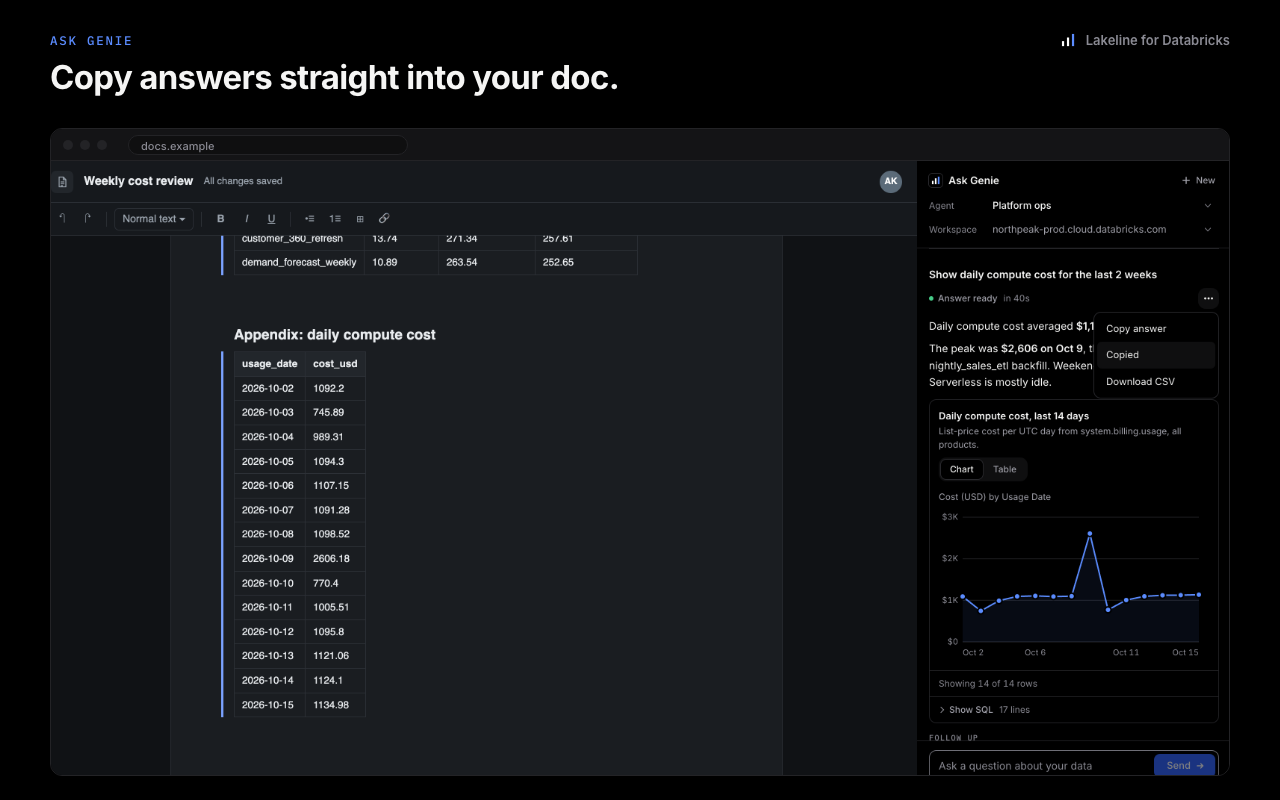
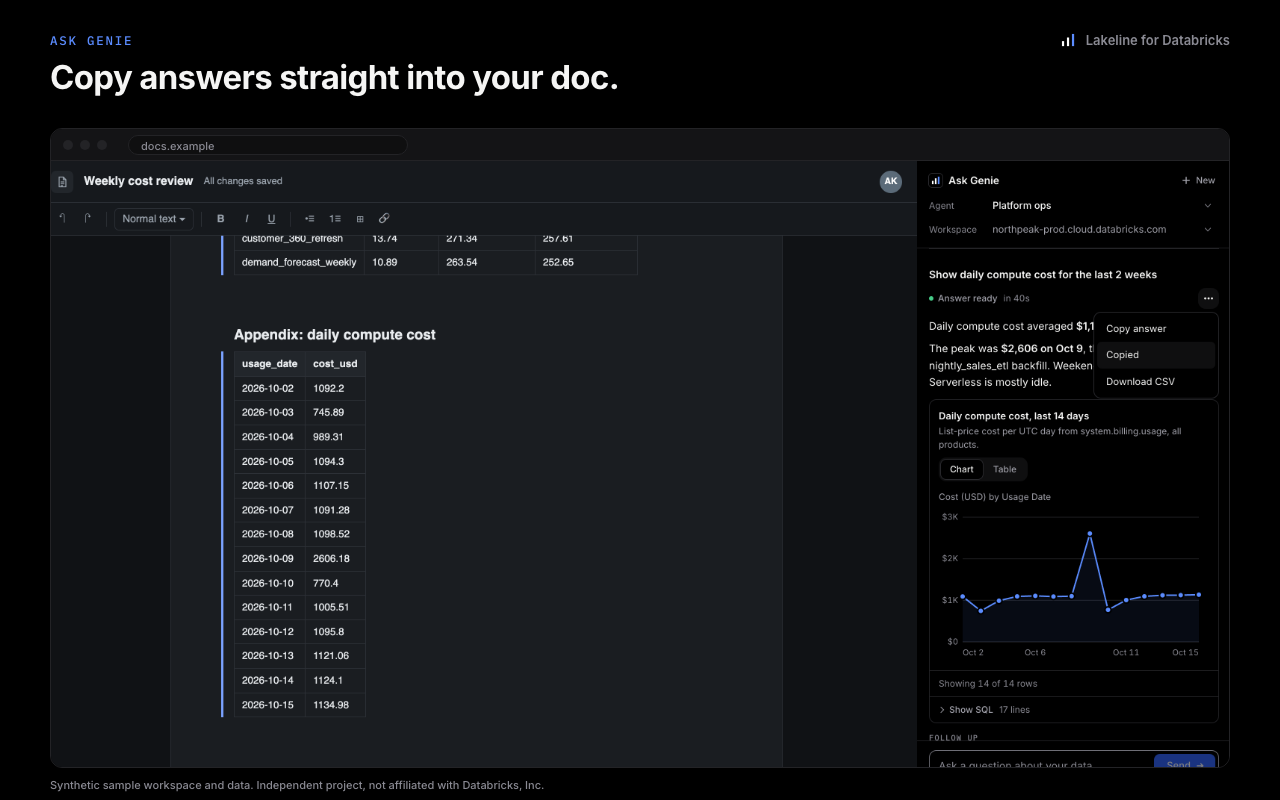
Reduce brand and policy risk before sharing
- TRADEMARKS: claim only "Lakeline" and the icon; "for Databricks" just
  says which platform it works with, and no rights in Databricks are claimed.
- One attribution line everywhere: Databricks is a registered trademark of
  Databricks, Inc.; Genie and other product names only identify Databricks
  products.
- Say plainly that the default sign-in reuses the public client Databricks
  provides for its own CLI (databricks-cli), that Databricks didn't create
  it for Lakeline or endorse Lakeline, and that sign-ins show as the CLI.
- In-page banner and estimates name Lakeline; the run-failure notification
  no longer reads as if Databricks sent it; side panel title names Lakeline.
- Store screenshots carry a synthetic-data and not-affiliated caption;
  the listing says the screenshots show a synthetic sample workspace.
- RELEASING and CONTRIBUTING: never capture or publish from Free Edition,
  employer workspaces or real prices; never share account logins with
  reviewers; no Databricks logos or endorsement claims.
- Source URL for the Azure serverless DBU table.

Changed region(s): [[0.0312, 0.9375, 0.625, 1.0], [0.9062, 0.9375, 0.9688, 0.9688]]

diff --git a/extension/docs/calculation-guide.html b/extension/docs/calculation-guide.html
@@ -24,7 +24,7 @@
     <h1>How costs are calculated</h1>
     <p class="lede">This guide explains where each number in Lakeline for Databricks comes from. It covers what each number includes and excludes, and why the extension sometimes withholds a value instead of showing zero. All examples use made-up numbers. None of them come from a real workspace.</p>
     <p class="notice" role="note">Estimated costs. Billing can be delayed; final invoices may differ.</p>
-    <p class="independent">Lakeline for Databricks is an independent project. It is not affiliated with, endorsed by, or sponsored by Databricks, Inc. Databricks and related marks are trademarks of Databricks, Inc.</p>
+    <p class="independent">Lakeline for Databricks is an independent project. It is not affiliated with, endorsed by, or sponsored by Databricks, Inc. Databricks is a registered trademark of Databricks, Inc.; Genie and other Databricks product names are used only to identify Databricks products.</p>
   </div>
 </header>
 
@@ -603,7 +603,7 @@ AND (price.price_end_time IS NULL OR usage.usage_end_time &lt; price.price_end_t
         <tr><th scope="row"><code>alarms</code></th><td>Schedules background work such as monitor polling.</td></tr>
         <tr><th scope="row"><code>identity</code></th><td>Sign in with Databricks through your organization's own app connection, in a sign-in window.</td></tr>
         <tr><th scope="row"><code>sidePanel</code></th><td>The Ask Genie side panel.</td></tr>
-        <tr><th scope="row"><code>http://localhost:8020</code> (optional)</th><td>Requested with the workspace when you use Sign in with Databricks without an app connection. Databricks' built-in sign-in app returns to this address; the extension reads the one-time code from its own sign-in tab and closes it. Nothing runs or is served there.</td></tr>
+        <tr><th scope="row"><code>http://localhost:8020</code> (optional)</th><td>Requested with the workspace when you use Sign in with Databricks without an app connection. The Databricks CLI's public sign-in client returns to this address; the extension reads the one-time code from its own sign-in tab and closes it. Nothing runs or is served there.</td></tr>
         <tr><th scope="row"><code>notifications</code> (optional)</th><td>Requested only if you turn on failed-run or Genie-answer notifications.</td></tr>
         <tr><th scope="row">Helper setup page connection</th><td>Only <code>http://127.0.0.1:8766</code> (the local helper's setup page) may send the extension a pairing message.</td></tr>
       </tbody>
@@ -657,8 +657,8 @@ AND (price.price_end_time IS NULL OR usage.usage_end_time &lt; price.price_end_t
 <section id="sign-in" aria-labelledby="sign-in-title">
   <h2 id="sign-in-title">Sign in with Databricks</h2>
   <p>The recommended way to connect, with no setup. On a workspace tab, open the extension and click <strong>Connect this workspace</strong>. Chrome asks once to allow access to that workspace and to <code>localhost:8020</code>. A tab opens on your workspace's own sign-in page and closes by itself once you are signed in. The extension then picks a SQL warehouse and list prices automatically, and costs show on the page.</p>
-  <p>It uses Databricks OAuth (authorization code with PKCE) against the workspace's own <code>/oidc/v1/authorize</code> and <code>/oidc/v1/token</code> endpoints, through Databricks' built-in public sign-in app (<code>databricks-cli</code>, the one the Databricks CLI uses). That app only returns to <code>http://localhost:8020</code>, so the extension reads the one-time code from its own sign-in tab; the code is useless without the PKCE secret the extension keeps. One <code>all-apis</code> sign-in covers cost queries, the run monitor and Genie. Tokens stay in browser session storage, refresh automatically, and are cleared when the browser closes or you disconnect the workspace.</p>
-  <p>If an admin turned off the built-in app, the popup says so: use a personal access token, or your organization's own app connection (below).</p>
+  <p>It uses Databricks OAuth (authorization code with PKCE) against the workspace's own <code>/oidc/v1/authorize</code> and <code>/oidc/v1/token</code> endpoints, through the public OAuth client that Databricks provides for its own CLI and SDKs (<code>databricks-cli</code>). Databricks did not create it for Lakeline and does not endorse Lakeline; tokens are issued to that client ID. That app only returns to <code>http://localhost:8020</code>, so the extension reads the one-time code from its own sign-in tab; the code is useless without the PKCE secret the extension keeps. One <code>all-apis</code> sign-in covers cost queries, the run monitor and Genie. Tokens stay in browser session storage, refresh automatically, and are cleared when the browser closes or you disconnect the workspace.</p>
+  <p>If an admin turned off that client, the popup says so: use a personal access token, or your organization's own app connection (below).</p>
   <h3 id="sign-in-setup">Optional: your organization's app connection</h3>
   <p>An account admin can register Lakeline once so the sign-in screen names your app and cost queries use a SQL-only sign-in (the run monitor and Genie then ask once more for <code>all-apis</code>):</p>
   <ol>

diff --git a/docs/privacy.html b/docs/privacy.html
@@ -40,7 +40,7 @@
   <h2>What the extension sends, and to whom</h2>
   <ul>
     <li><strong>Your Databricks workspace:</strong> read-only SQL queries against Databricks system tables (billing, query history, job and pipeline timelines), and read-only API calls for SQL warehouses, job runs, pipelines and clusters. If you ask Genie a question, the question text goes to the Genie Agent you selected in your own workspace. Requests carry your sign-in token, which goes only to that workspace.</li>
-    <li><strong>Databricks sign-in:</strong> "Sign in with Databricks" uses your workspace's own OAuth endpoints, through Databricks' built-in sign-in app (the one the Databricks CLI uses) or your organization's app connection. With the built-in app, the sign-in ends at <code>http://localhost:8020</code>: the extension reads the one-time code from the address of the sign-in tab it opened, then closes that tab. Nothing is sent to, or served from, your computer.</li>
+    <li><strong>Databricks sign-in:</strong> "Sign in with Databricks" uses your workspace's own OAuth endpoints, through the public OAuth client that Databricks provides for its own CLI (<code>databricks-cli</code>; Databricks did not create it for Lakeline and does not endorse Lakeline) or your organization's app connection. With the CLI's public client, the sign-in ends at <code>http://localhost:8020</code>: the extension reads the one-time code from the address of the sign-in tab it opened, then closes that tab. Nothing is sent to, or served from, your computer.</li>
     <li><strong>The optional local helper</strong> (if you choose to run it): it runs on your computer at 127.0.0.1, and its Databricks credentials stay in the Databricks CLI on your computer.</li>
   </ul>
   <p>The extension does not read the text of your SQL queries or the result rows of your queries in Query History. Cost estimates use only timestamps, durations, warehouse IDs and billing records.</p>
@@ -65,7 +65,7 @@
   <h2>Contact</h2>
   <p>Vivek Kovvuru · questions and requests: <a href="https://github.com/vivkv07/lakeline-for-databricks/issues">GitHub Issues</a></p>
 
-  <p class="fine">Lakeline is an independent project and is not affiliated with, endorsed by or sponsored by Databricks, Inc. Databricks and Genie are trademarks of Databricks, Inc.</p>
+  <p class="fine">Lakeline is an independent project and is not affiliated with, endorsed by or sponsored by Databricks, Inc. Databricks is a registered trademark of Databricks, Inc.; Genie and other Databricks product names are used only to identify Databricks products.</p>
 </main>
 </body>
 </html>

diff --git a/video/composer/scenes/mg.js b/video/composer/scenes/mg.js
@@ -143,7 +143,7 @@ export function security(ctx, { t0, t1 }) {
   const layer = el('div', 'layer', ctx.root);
   const eb = el('div', 'eyebrow abs', layer, { left: '120px', top: '112px', fontSize: '18px', color: '#8FB0FF' });
   eb.textContent = 'Security and privacy';
-  const head = kinetic(layer, 'Nothing leaves your Databricks and your browser.', { size: 66, stagger: 0.05, dur: 0.9, tracking: -0.03, style: { left: '120px', top: '150px' } });
+  const head = kinetic(layer, 'Nothing leaves your Databricks workspace and your browser.', { size: 66, stagger: 0.05, dur: 0.9, tracking: -0.03, style: { left: '120px', top: '150px' } });
   const rows = SECURITY_POINTS.map(([icon, text], i) => {
     const y = 318 + i * 116;
     const row = el('div', 'abs', layer, { left: '120px', top: y + 'px', width: '1380px', height: '116px' });
@@ -160,7 +160,7 @@ export function security(ctx, { t0, t1 }) {
     t0, t1, pre: 0, post: 0.05, layer,
     events: () => [
       { t: t0 + 0.25, kind: 'eyebrow', scene: 12, label: 'Security and privacy', dur: 0.8 },
-      { t: t0 + 0.35, kind: 'title', scene: 12, label: 'Nothing leaves your Databricks and your browser.', dur: 0.05 * 7 + 0.9 },
+      { t: t0 + 0.35, kind: 'title', scene: 12, label: 'Nothing leaves your Databricks workspace and your browser.', dur: 0.05 * 7 + 0.9 },
       ...SECURITY_POINTS.map(([, text], i) => ({ t: t0 + 1.6 + i * 0.95, kind: 'point', scene: 12, label: text, dur: 0.9 })),
       { t: t1 - 0.45, kind: 'title-out', scene: 12, label: 'security panel leaves', dur: 0.45 },
     ],

diff --git a/extension/src/content/workspace-ui.js b/extension/src/content/workspace-ui.js
@@ -200,6 +200,10 @@ td.num { font-family: var(--mono); }
       svg.setAttribute('class', 'mark');
       svg.setAttribute('viewBox', '0 0 16 16');
       svg.setAttribute('aria-hidden', 'true');
+      // A hover label tells users this banner comes from the extension, not from Databricks.
+      const label = doc.createElementNS(SVG_NS, 'title');
+      label.textContent = 'Lakeline for Databricks (independent browser extension)';
+      svg.appendChild(label);
       // Product mark: black rounded square, white bars, the tallest bar in accent blue.
       for (const [x, y, w, hh, fill, rx] of [[0, 0, 16, 16, '#000000', 4], [3.5, 8.5, 2, 4, '#FFFFFF'], [7, 5.5, 2, 7, '#FFFFFF'], [10.5, 3.5, 2, 9, '#5B8CFF']]) {
         const r = doc.createElementNS(SVG_NS, 'rect');
@@ -500,7 +504,7 @@ td.num { font-family: var(--mono); }
       const hadFocus = Boolean(active);
       const openKeys = new Set([...wrap.querySelectorAll('details[open][data-k]')].map((d) => d.getAttribute('data-k')));
 
-      const bar = h('div', { class: 'bar', role: 'region', tabindex: '-1', 'aria-label': 'Estimated Databricks costs', 'aria-busy': String(state.status === 'loading') }, [
+      const bar = h('div', { class: 'bar', role: 'region', tabindex: '-1', 'aria-label': 'Lakeline: estimated Databricks costs', 'aria-busy': String(state.status === 'loading') }, [
         h('div', { class: 'row' }, [lead(state), meta(state), controls(state)]),
         details(state),
         state.notice ? h('p', { class: 'note warn' }, V.safeText(state.notice, 300)) : null,

diff --git a/extension/ui/options.html b/extension/ui/options.html
@@ -123,7 +123,7 @@
           <div class="op-actions">
             <button type="button" id="oauth-signin" class="dcc-btn dcc-btn--primary">Sign in with Databricks</button>
           </div>
-          <p class="op-help">No setup needed: Lakeline signs in through Databricks' built-in sign-in app, the one the Databricks CLI uses, in a tab that closes itself. If an admin turned that app off, use a personal access token or your organization's app connection.</p>
+          <p class="op-help">No setup needed: Lakeline reuses the Databricks CLI's public sign-in client (databricks-cli) in a tab that closes itself. Databricks provides that client for its own tools and does not endorse Lakeline. If an admin turned it off, use a personal access token or your organization's app connection.</p>
           <div id="oauth-result" class="op-result" aria-live="polite"></div>
           <details id="oauth-setup-opt" class="dcc-disclosure op-inline-disclosure">
             <summary>Optional: use your organization's app connection</summary>

diff --git a/extension/src/content/warehouse-ui.js b/extension/src/content/warehouse-ui.js
@@ -29,7 +29,8 @@
 
   const SIZES = Object.freeze(['2X-Small', 'X-Small', 'Small', 'Medium', 'Large', 'X-Large', '2X-Large', '3X-Large', '4X-Large', '5X-Large']);
   const CANONICAL = new Map(SIZES.map((s) => [s.toLowerCase(), s]));
-  // Azure Databricks serverless SQL warehouse DBU/h per cluster (verified 2026-10-15).
+  // Azure Databricks serverless SQL warehouse DBU/h per cluster (verified 2026-10-15). Source:
+  // https://learn.microsoft.com/en-us/azure/databricks/resources/pricing (serverless DBU consumption by size).
   // 5X-Large has no published rate and is deliberately absent.
   const AZURE_SERVERLESS_DBU = Object.freeze({ '2X-Small': 4, 'X-Small': 6, Small: 12, Medium: 24, Large: 40, 'X-Large': 80, '2X-Large': 144, '3X-Large': 272, '4X-Large': 528 });
   const SIZE_RE = /(?:^|[^A-Za-z0-9-])(2X-Small|X-Small|5X-Large|4X-Large|3X-Large|2X-Large|X-Large|Small|Medium|Large)(?=$|[^A-Za-z0-9-])/i;

diff --git a/extension/src/background/monitor.js b/extension/src/background/monitor.js
@@ -573,7 +573,7 @@
           if (r.more) {
             await n.create('dcc-more-' + nowMs, { type: 'basic', iconUrl, title: plural(r.more, 'more job run') + ' failed', message: 'Open the run monitor for details.', contextMessage: host, priority: 0 });
           } else {
-            await n.create('dcc-run-' + r.runId, { type: 'basic', iconUrl, title: 'Databricks job run failed', message: (r.name || 'Run ' + r.runId) + ' · ' + r.statusText, contextMessage: host, priority: 0 });
+            await n.create('dcc-run-' + r.runId, { type: 'basic', iconUrl, title: 'Job run failed', message: (r.name || 'Run ' + r.runId) + ' · ' + r.statusText, contextMessage: host, priority: 0 });
           }
         } catch (e) {
           warn(e);

diff --git a/extension/src/errors.js b/extension/src/errors.js
@@ -102,7 +102,7 @@
     },
     BUILTIN_SIGNIN_BLOCKED: {
       title: 'This Databricks account does not allow quick sign-in',
-      steps: ['An admin may have turned off the built-in sign-in app. Use a personal access token instead: Other ways to sign in, Use a token.', 'Or ask an account admin to register Lakeline once and use that app connection.'],
+      steps: ['An admin may have turned off the Databricks CLI\'s public sign-in client (databricks-cli), which Lakeline reuses. Use a personal access token instead: Other ways to sign in, Use a token.', 'Or ask an account admin to register Lakeline once and use that app connection.'],
     },
     PAT_REJECTED: {
       title: 'Databricks did not accept this token',

diff --git a/docs/index.html b/docs/index.html
@@ -38,7 +38,7 @@
 
   <p><a href="privacy.html">Privacy policy</a> · <a href="https://github.com/vivkv07/lakeline-for-databricks">Source code</a> · <a href="https://github.com/vivkv07/lakeline-for-databricks/issues">Support</a></p>
 
-  <p class="fine">Lakeline is an independent project and is not affiliated with, endorsed by or sponsored by Databricks, Inc. Databricks and Genie are trademarks of Databricks, Inc.</p>
+  <p class="fine">Lakeline is an independent project and is not affiliated with, endorsed by or sponsored by Databricks, Inc. Databricks is a registered trademark of Databricks, Inc.; Genie and other Databricks product names are used only to identify Databricks products.</p>
 </main>
 </body>
 </html>

diff --git a/extension/src/content/inline.js b/extension/src/content/inline.js
@@ -165,7 +165,7 @@
     if (demo) cls += ' demo';
 
     const lines = [headline];
-    lines.push(demo ? 'Synthetic demo figure; not from Databricks.' : imported ? 'Imported summary from a local costs.json file; contains no run detail.' : 'Estimated recorded cost: signed usage quantity × unit price.');
+    lines.push(demo ? 'Synthetic demo figure; not from Databricks.' : imported ? 'Imported summary from a local costs.json file; contains no run detail.' : 'Lakeline estimate of recorded cost: signed usage quantity × unit price.');
     lines.push(scopeLine(item, type, periodDays, nowMs));
     const attr = attributionLine(item, type, currency);
     if (attr) lines.push(attr);

diff --git a/extension/ui/sidepanel.html b/extension/ui/sidepanel.html
@@ -4,7 +4,7 @@
   <meta charset="utf-8">
   <meta name="viewport" content="width=device-width, initial-scale=1">
   <meta name="color-scheme" content="light dark">
-  <title>Genie · Lakeline</title>
+  <title>Ask Genie · Lakeline for Databricks</title>
   <link rel="stylesheet" href="brand.css">
   <link rel="stylesheet" href="sidepanel.css">
 </head>

diff --git a/README.md b/README.md
@@ -8,12 +8,13 @@ Explorer, workspace top-bar colors, and an optional run monitor.
 > **Estimated costs. Billing can be delayed; final invoices may differ.**
 >
 > This is an independent project. It is not affiliated with, endorsed by, or sponsored by
-> Databricks, Inc. Databricks and related marks are trademarks of Databricks, Inc.
+> Databricks, Inc. Databricks is a registered trademark of Databricks, Inc.; Genie and other
+> Databricks product names are used only to identify Databricks products.
 
 Created and maintained by **Vivek Kovvuru**. Open source under the
 [Apache License 2.0](LICENSE); contributions are welcome, see [CONTRIBUTING.md](CONTRIBUTING.md).
 
-Status: version 0.1.1, in review on the Chrome Web Store. See [CHANGELOG.md](CHANGELOG.md).
+Status: version 0.1.2, in review on the Chrome Web Store. See [CHANGELOG.md](CHANGELOG.md).
 
 **How the numbers are calculated:** [`extension/docs/calculation-guide.html`](extension/docs/calculation-guide.html).
 The guide is also linked from the banner (**How costs work**), the popup and Connection preferences.
@@ -73,7 +74,7 @@ appears. More in [`store/assets/`](store/assets/).
 
 | Cost banner on a workspace | Ask Genie in the side panel |
 |---|---|
-| ![Cost banner showing 30-day spend inside a Databricks workspace](store/assets/screenshot-light-1.png) | ![Genie answer with a bar chart in the side panel](store/assets/screenshot-dark-1.png) |
+| ![Cost banner showing 30-day spend in a synthetic Databricks-style sample workspace](store/assets/screenshot-light-1.png) | ![Genie answer with a bar chart in the side panel](store/assets/screenshot-dark-1.png) |
 | **Cost Explorer: top drivers** | **Workspace colors for dev, stage and prod** |
 | ![Cost Explorer listing the jobs and warehouses that drive spend](store/assets/screenshot-light-4.png) | ![Three workspaces with green, amber and red top bars](store/assets/screenshot-light-5.png) |
 
@@ -117,11 +118,14 @@ warehouse**, as you. So before you connect, you need:
 
 4. **A supported browser:** Google Chrome or Microsoft Edge, version 116 or newer, on desktop.
 
-Nothing else to install. **Sign in with Databricks** uses Databricks' built-in sign-in app, the
-one the Databricks CLI uses. If an admin turned that app off, paste a personal access token
-instead (or have an account admin register an app connection once). The run monitor and Genie
-also need permission to view the jobs, pipelines, warehouses and Genie spaces you use. The full
-table is under [Databricks permissions](#databricks-permissions).
+Nothing else to install. **Sign in with Databricks** reuses the public OAuth client that
+Databricks provides for its own CLI and SDKs (`databricks-cli`). Databricks did not create that
+client for Lakeline and does not review or endorse Lakeline. Tokens are issued to that client ID,
+so sign-ins most likely appear in audit logs as the Databricks CLI. If an admin turned that client
+off (which also affects the Databricks CLI), paste a personal access token instead, or have an
+account admin register an app connection for Lakeline once. The run monitor and Genie also need
+permission to view the jobs, pipelines, warehouses and Genie spaces you use. The full table is
+under [Databricks permissions](#databricks-permissions).
 
 Optional:
 
@@ -182,7 +186,7 @@ Open a Databricks workspace tab, open the popup, and select **Connect this works
    itself after a moment.
 3. Lakeline reads the workspace ID, picks a SQL warehouse and shows costs on the page.
 
-Why `localhost:8020`: Databricks' built-in sign-in app (`databricks-cli`) only sends you back to
+Why `localhost:8020`: the Databricks CLI's public sign-in client (`databricks-cli`) only sends you back to
 that address. Nothing runs there; Lakeline reads the one-time code from its own sign-in tab and
 closes it. Tokens stay in browser session storage.
 
@@ -375,7 +379,7 @@ The service worker sends the question, waits for Genie and keeps the answer for 
 
 **Sign-in.** Connected workspaces only:
 
-- **Sign in with Databricks:** the default sign-in (Databricks' built-in app) already grants
+- **Sign in with Databricks:** the default sign-in (the Databricks CLI's public client) already grants
   `all-apis`, so Genie, the run monitor and cost queries share one sign-in. With your
   organization's own app connection, cost queries use a SQL-only sign-in, and the panel asks once
   more with **Allow Genie and run status** for the broader `all-apis` consent. Every Genie API
